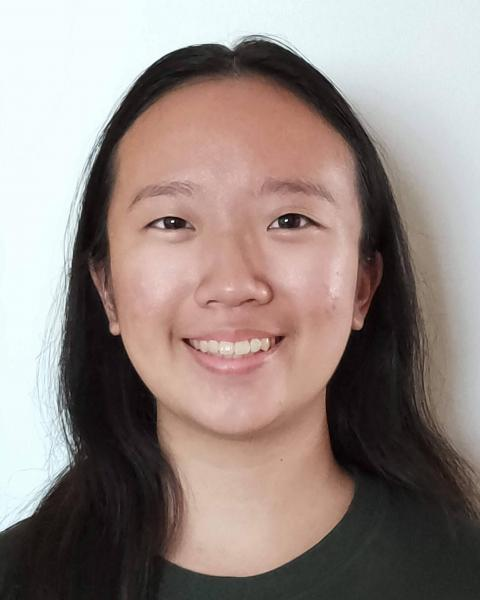
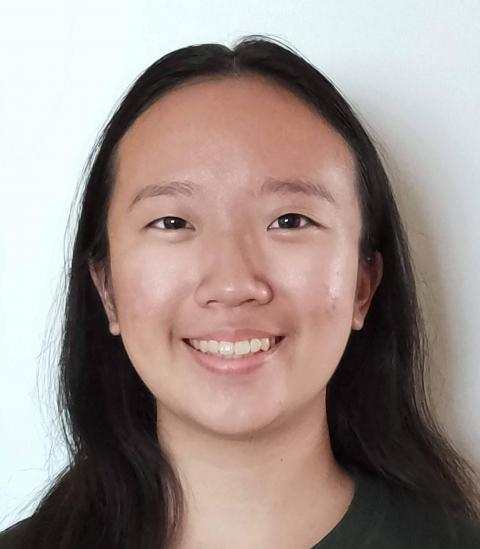
Add profile pics and adjust frames

Changed region(s): [[0.0, 0.031, 1.0, 1.0], [0.25, 0.9909, 0.2812, 1.0]]

diff --git a/team.html b/team.html
@@ -350,7 +350,7 @@
 					<!-- Grid column -->
 					<div class="col-lg-3 col-md-6 mb-md-0 mb-5">
 						<div class="team text-center rounded p-3 py-4">
-						  <img src="images/defaultprofile.jpg" class="rounded-circle z-depth-1 square-image"
+						  <img src="images/athena.jpg" class="rounded-circle z-depth-1 square-image"
 							alt="Sample avatar" >
   
 						<h4 class="font-weight-bold mt-4 mb-3">Athena Yeung</h4>
